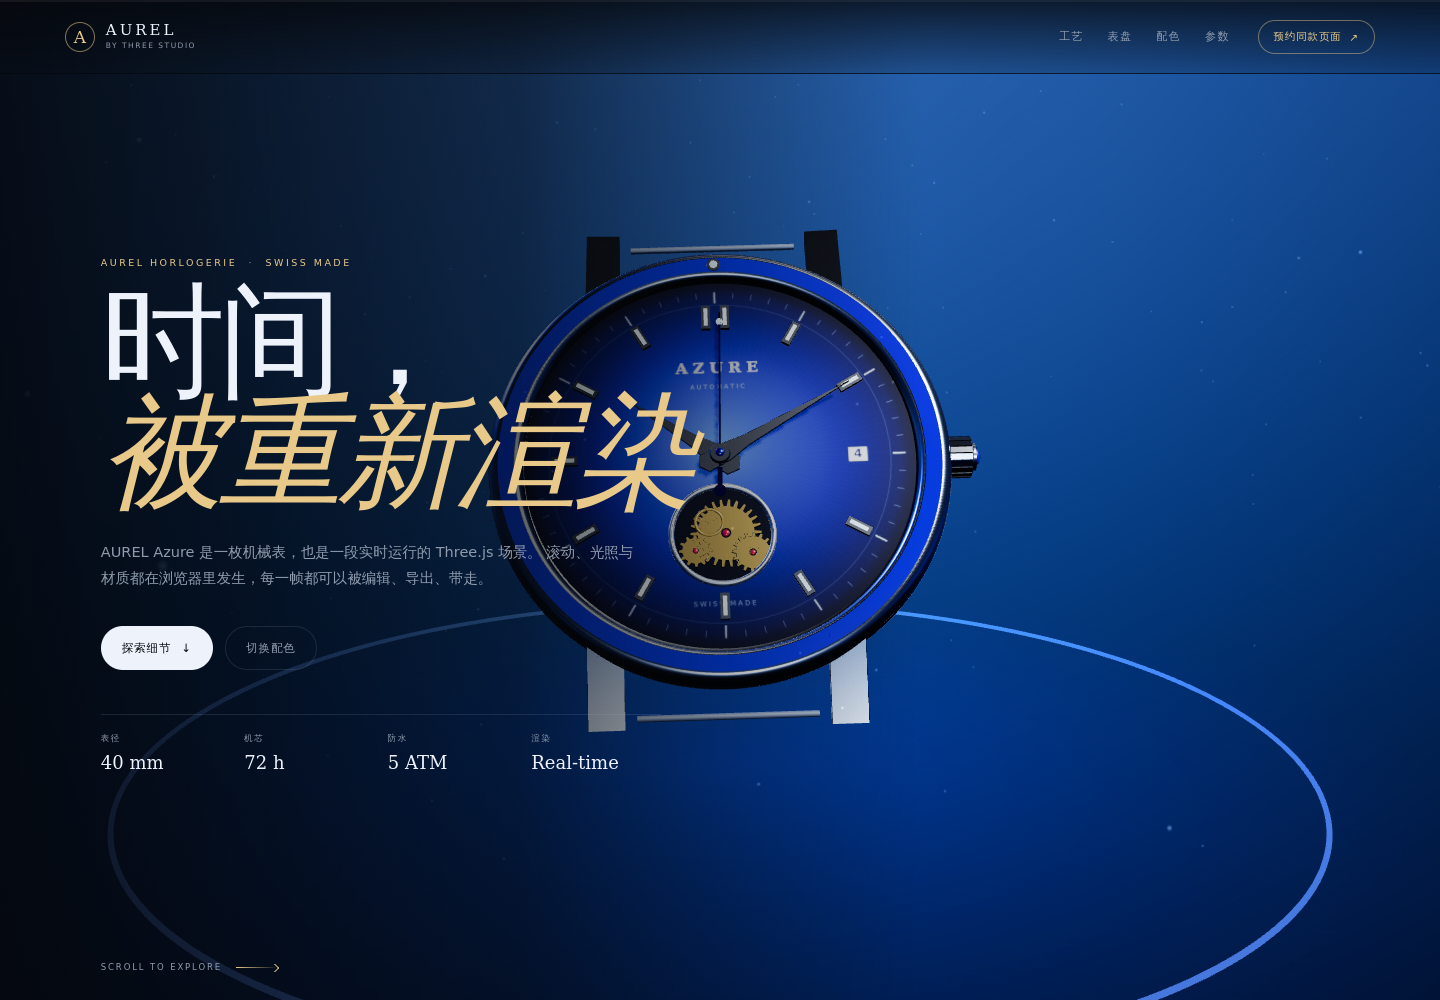
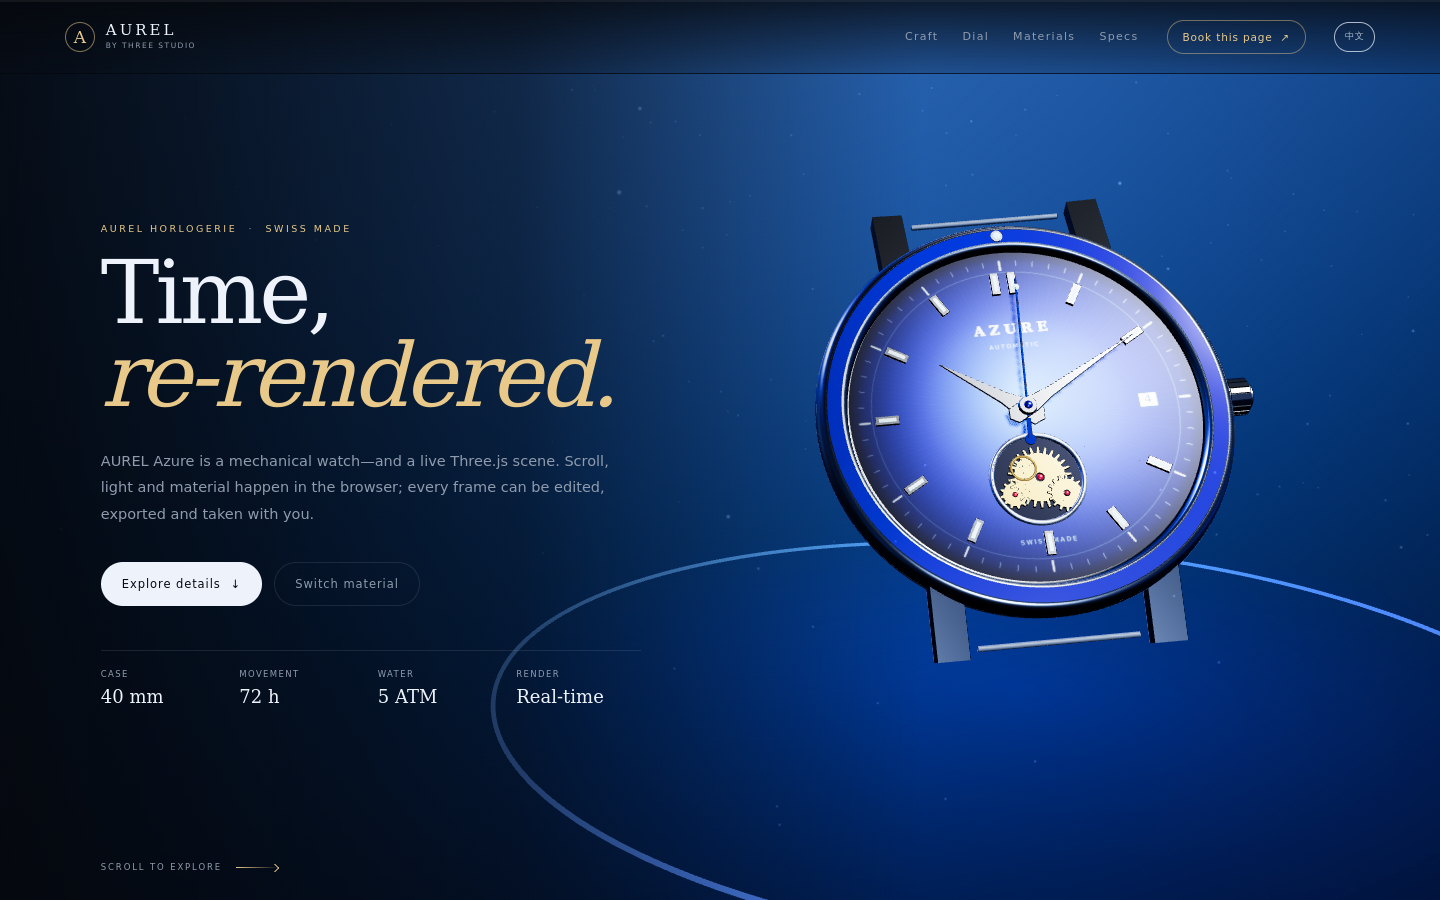
Rebuild the AUREL, LUMEN and ORBIT LAB gallery demos
The three original work demos rendered worse than the rest of the gallery: AUREL's 126px headline ran under the watch, LUMEN's lamp was stacked primitives, and ORBIT LAB's first lesson was an almost-black frame.

agency-demo: the hero camera slides right of centre while the first chapter holds, then recentres as the story panels take over; the headline caps at 88px in a 560px column so type and product no longer collide.

configurator-demo: every lamp part is now a lathe profile with real chamfers, lips and wall thickness instead of stacked cylinders, plus a turned collar, knurled band, machined shoulder, pivot pin, tapered arm, counterweight and a frosted diffuser. The shade went through three attempts worth recording: a double-sided closed lathe mirrored itself into moiré rings, two shells 2mm apart still z-fought, and the shipping version is an open FrontSide metal cone plus a separate matte inner cone 30mm apart. applyShade now toggles all four shade meshes and both rims so the hidden variant cannot draw through.

education-demo: step 01 shows the real stage scaffolding (camera frustum gizmo, light-rig markers, origin axes and target ring) over the shared ground grid instead of a lone wireframe cube, and the left headline scales to its column so it stops clipping mid-word.

previews regenerated at 1440x900 through real WebGL. 416 Node tests pass.

diff --git a/site/configurator-demo/main.js b/site/configurator-demo/main.js
@@ -102,7 +102,10 @@ const metalMat = new THREE.MeshPhysicalMaterial({
   clearcoat: 0.55,
   clearcoatRoughness: 0.22,
   envMapIntensity: 1.25,
-  side: THREE.DoubleSide,
+  // FrontSide only. A double-sided highly reflective shell makes its own inner
+  // wall mirror the outer one, which is what produced the moiré bands on the
+  // shade; the inner surface is now a separate matte cone.
+  side: THREE.FrontSide,
 })
 const bulbMat = new THREE.MeshStandardMaterial({
   color: 0xfff1d0,
@@ -141,74 +144,175 @@ const lamp = new THREE.Group()
 lamp.position.y = 0.02
 scene.add(lamp)
 
-const base = new THREE.Mesh(new THREE.CylinderGeometry(1.3, 1.44, 0.22, 64), metalMat)
-base.position.y = 0.11
-base.castShadow = true
-base.receiveShadow = true
+// The product is a lathe-turned metal lamp: every part is a profile revolved
+// around Y, so the body has a real chamfer, lip and wall thickness instead of
+// stacked cylinders. `metalMat` carries the configurable finish; `innerMat` is
+// the matt white reflector and must never take the body finish.
+const innerMat = new THREE.MeshStandardMaterial({
+  color: 0xf6efe2,
+  metalness: 0.0,
+  roughness: 0.92,
+  envMapIntensity: 0.5,
+  side: THREE.DoubleSide,
+})
+
+function lathe(profile, material, segments = 96) {
+  const points = profile.map(([radius, height]) => new THREE.Vector2(radius, height))
+  const mesh = new THREE.Mesh(new THREE.LatheGeometry(points, segments), material)
+  mesh.castShadow = true
+  mesh.receiveShadow = true
+  return mesh
+}
+
+// Cast base: flat underside, chamfered edge, domed top rising into a collar.
+const base = lathe([
+  [0.00, 0.00], [1.34, 0.00], [1.44, 0.035], [1.45, 0.090],
+  [1.41, 0.150], [1.30, 0.196], [1.10, 0.226], [0.84, 0.242],
+  [0.62, 0.258], [0.46, 0.310], [0.34, 0.372], [0.22, 0.404],
+  [0.13, 0.414], [0.00, 0.414],
+], metalMat)
 lamp.add(base)
 
-const baseRing = new THREE.Mesh(new THREE.TorusGeometry(1.25, 0.012, 8, 96), darkMat)
+// Turned collar the stem screws into, plus a dark seam ring for definition.
+const collar = lathe([
+  [0.000, 0.400], [0.150, 0.400], [0.150, 0.452], [0.128, 0.470],
+  [0.104, 0.470], [0.098, 0.452], [0.098, 0.400], [0.000, 0.400],
+], metalMat)
+lamp.add(collar)
+
+const baseRing = new THREE.Mesh(new THREE.TorusGeometry(0.60, 0.010, 8, 96), darkMat)
 baseRing.rotation.x = Math.PI / 2
-baseRing.position.y = 0.225
+baseRing.position.y = 0.262
 lamp.add(baseRing)
 
-const stem = new THREE.Mesh(new THREE.CylinderGeometry(0.075, 0.095, 2.05, 24), metalMat)
-stem.position.y = 1.22
-stem.castShadow = true
-stem.receiveShadow = true
+// Stem: slight taper, a knurled band, and a machined shoulder at the top.
+const stem = lathe([
+  [0.000, 0.440], [0.094, 0.440], [0.088, 0.470], [0.080, 1.90],
+  [0.086, 1.96], [0.096, 2.02], [0.104, 2.10], [0.104, 2.16],
+  [0.086, 2.20], [0.000, 2.20],
+], metalMat)
 lamp.add(stem)
 
-const joint = new THREE.Mesh(new THREE.SphereGeometry(0.16, 24, 16), metalMat)
-joint.position.y = 2.23
+const knurl = new THREE.Mesh(new THREE.CylinderGeometry(0.088, 0.088, 0.10, 32, 1, true), darkMat)
+knurl.position.y = 1.02
+lamp.add(knurl)
+
+// Shoulder + pivot joint.
+const shoulder = lathe([
+  [0.000, 2.16], [0.104, 2.16], [0.140, 2.20], [0.150, 2.26],
+  [0.132, 2.31], [0.060, 2.325], [0.000, 2.325],
+], metalMat)
+lamp.add(shoulder)
+
+const joint = new THREE.Mesh(new THREE.SphereGeometry(0.145, 32, 20), metalMat)
+joint.position.y = 2.335
 joint.castShadow = true
 lamp.add(joint)
 
+const jointPin = new THREE.Mesh(new THREE.CylinderGeometry(0.038, 0.038, 0.36, 20), darkMat)
+jointPin.rotation.z = Math.PI / 2
+jointPin.position.y = 2.335
+lamp.add(jointPin)
+
 const armPivot = new THREE.Group()
-armPivot.position.set(0, 2.23, 0)
+armPivot.position.set(0, 2.335, 0)
 armPivot.rotation.z = -0.28
 lamp.add(armPivot)
 
-const arm = new THREE.Mesh(new THREE.BoxGeometry(1.55, 0.085, 0.12), metalMat)
-arm.position.x = 0.775
+// Tapered arm with a counterweight behind the pivot, which is what makes a
+// balanced task lamp read as a real mechanism rather than a floating stick.
+const arm = new THREE.Mesh(new THREE.CylinderGeometry(0.052, 0.070, 1.52, 24), metalMat)
+arm.rotation.z = Math.PI / 2
+arm.position.x = 0.76
 arm.castShadow = true
 arm.receiveShadow = true
 armPivot.add(arm)
 
+const armEnd = new THREE.Mesh(new THREE.SphereGeometry(0.082, 24, 16), metalMat)
+armEnd.position.x = 1.52
+armEnd.castShadow = true
+armPivot.add(armEnd)
+
+// Counterweight behind the pivot. The lathe profile revolves around Y, so it is
+// rotated to sit on the arm's -X axis; without the z spin its cap faced sideways
+// and the weight read as a floating disc rather than a turned knob.
+const weight = lathe([
+  [0.000, 0.000], [0.118, 0.000], [0.118, 0.052], [0.104, 0.074],
+  [0.064, 0.086], [0.000, 0.086],
+], darkMat, 48)
+weight.rotation.z = Math.PI / 2
+weight.position.set(-0.30, 0, 0)
+armPivot.add(weight)
+
 const shadeGroup = new THREE.Group()
-shadeGroup.position.set(1.55, 0, 0)
-shadeGroup.rotation.z = 0.28
+shadeGroup.position.set(1.52, 0, 0)
+shadeGroup.rotation.z = 0.175
 armPivot.add(shadeGroup)
 
-const coneShade = new THREE.Mesh(new THREE.CylinderGeometry(0.23, 0.6, 0.62, 64, 1, true), metalMat)
-coneShade.position.y = -0.31
-coneShade.castShadow = true
-coneShade.receiveShadow = true
+const shadeNeck = new THREE.Mesh(new THREE.CylinderGeometry(0.10, 0.135, 0.16, 28), metalMat)
+shadeNeck.position.y = 0.05
+shadeNeck.castShadow = true
+shadeGroup.add(shadeNeck)
+
+// Conical shade: outer metal shell + inner matte reflector, 30 mm apart.
+//
+// Two failed attempts are worth recording. A single closed lathe rendered as
+// concentric moiré rings, because the metal is double-sided and highly
+// reflective, so the inner and outer walls reflected each other. Two shells
+// only 2 mm apart still z-fought. The shade is therefore an open outer cone
+// (metal, front faces) plus a separate open inner cone (matte white, back
+// faces) with a full 30 mm of air between them — which is also how a real lamp
+// shade is built.
+const SHADE_WALL = 0.030
+const coneOuter = [
+  [0.170, 0.020], [0.300, -0.120], [0.430, -0.280], [0.545, -0.450], [0.596, -0.575],
+]
+const coneShade = lathe(coneOuter, metalMat)
 shadeGroup.add(coneShade)
 
-const coneRim = new THREE.Mesh(new THREE.TorusGeometry(0.6, 0.018, 10, 64), darkMat)
+const coneInner = lathe(
+  coneOuter.map(([radius, height]) => [radius - SHADE_WALL, height + SHADE_WALL * 0.5]),
+  innerMat,
+)
+shadeGroup.add(coneInner)
+
+const coneRim = new THREE.Mesh(new THREE.TorusGeometry(0.583, 0.014, 10, 96), darkMat)
 coneRim.rotation.x = Math.PI / 2
-coneRim.position.y = -0.62
+coneRim.position.y = -0.586
 shadeGroup.add(coneRim)
 
-const domeShade = new THREE.Mesh(
-  new THREE.SphereGeometry(0.6, 48, 24, 0, Math.PI * 2, 0, Math.PI / 2),
-  metalMat,
-)
-domeShade.position.y = -0.6
-domeShade.castShadow = true
-domeShade.receiveShadow = true
+// Dome shade: the same two-shell construction, hemispherical.
+const domeOuter = [
+  [0.590, -0.600], [0.582, -0.500], [0.552, -0.360], [0.472, -0.200],
+  [0.342, -0.060], [0.186, 0.030],
+]
+const domeShade = lathe(domeOuter, metalMat)
 domeShade.visible = false
 shadeGroup.add(domeShade)
 
-const domeRim = new THREE.Mesh(new THREE.TorusGeometry(0.6, 0.018, 10, 64), darkMat)
+const domeInner = lathe(
+  domeOuter.map(([radius, height]) => [radius - SHADE_WALL, height + SHADE_WALL * 0.5]),
+  innerMat,
+)
+domeInner.visible = false
+shadeGroup.add(domeInner)
+
+const domeRim = new THREE.Mesh(new THREE.TorusGeometry(0.560, 0.014, 10, 96), darkMat)
 domeRim.rotation.x = Math.PI / 2
-domeRim.position.y = -0.6
+domeRim.position.y = -0.598
 domeRim.visible = false
 shadeGroup.add(domeRim)
 
-const bulb = new THREE.Mesh(new THREE.SphereGeometry(0.15, 24, 16), bulbMat)
+// Bulb sits behind a frosted diffuser disc so the light source has a body and
+// the glow sprite is not the only thing reading.
+const bulb = new THREE.Mesh(new THREE.SphereGeometry(0.135, 28, 20), bulbMat)
 bulb.position.y = -0.38
 shadeGroup.add(bulb)
+
+const diffuser = new THREE.Mesh(new THREE.CircleGeometry(0.175, 40), innerMat)
+diffuser.rotation.x = -Math.PI / 2
+diffuser.position.y = -0.30
+shadeGroup.add(diffuser)
 
 const glow = new THREE.Mesh(new THREE.CircleGeometry(0.52, 48), glowMat)
 glow.rotation.x = Math.PI / 2
@@ -338,12 +442,18 @@ function applyFinish() {
 
 function applyShade() {
   const dome = config.shade === 'dome'
+  // Each shade is an outer metal cone plus an inner matte cone; all four meshes
+  // and both rims have to follow the switch, or the hidden shade keeps drawing.
   coneShade.visible = !dome
+  coneInner.visible = !dome
   coneRim.visible = !dome
   domeShade.visible = dome
+  domeInner.visible = dome
   domeRim.visible = dome
   bulb.position.y = dome ? -0.48 : -0.38
-  glow.position.y = dome ? -0.6 : -0.6
+  diffuser.position.y = dome ? -0.40 : -0.30
+  diffuser.rotation.x = dome ? Math.PI / 2 : -Math.PI / 2
+  glow.position.y = -0.6
   lampLight.position.y = dome ? -0.48 : -0.38
 }
 

diff --git a/site/education-demo/main.js b/site/education-demo/main.js
@@ -75,11 +75,79 @@ grid.material.transparent = true
 grid.material.opacity = 0.3
 scene.add(grid)
 
-const placeholder = new THREE.Mesh(
-  new THREE.BoxGeometry(1.2, 1.2, 1.2),
-  new THREE.MeshStandardMaterial({ color: 0x6f8dff, wireframe: true, transparent: true, opacity: 0.55 }),
+// Step 01 shows the empty stage the lesson starts from. A bare wireframe cube
+// read as a black frame on the gallery card, so the stage shows the scaffolding
+// the code actually creates: a camera frustum, light-rig markers and the origin
+// gizmo. The ground grid it sits on is the shared `grid` above. This is a
+// composition, not a placeholder box.
+const placeholder = new THREE.Group()
+
+const frustumGeo = new THREE.BufferGeometry()
+{
+  // A camera gizmo at the origin: a 42° frustum pointing down -Z with a short
+  // throw. Drawing the rays from the real eye position (8.5, 6.2, 10.5) put a
+  // stray line across the whole stage, so the gizmo is compact and local.
+  const halfV = Math.tan((42 * Math.PI) / 180 / 2)
+  const halfH = halfV * (16 / 10)
+  const points = []
+  const near = 0.55
+  const far = 1.5
+  const quad = distance => {
+    const v = distance * halfV
+    const h = distance * halfH
+    return [
+      [-h, v, -distance], [h, v, -distance],
+      [h, -v, -distance], [-h, -v, -distance],
+    ]
+  }
+  const nearQuad = quad(near)
+  const farQuad = quad(far)
+  const push = (a, b) => { points.push(...a, ...b) }
+  for (let i = 0; i < 4; i += 1) {
+    push([0, 0, 0], farQuad[i])
+    push(nearQuad[i], nearQuad[(i + 1) % 4])
+    push(farQuad[i], farQuad[(i + 1) % 4])
+  }
+  frustumGeo.setAttribute('position', new THREE.Float32BufferAttribute(points, 3))
+}
+const frustum = new THREE.LineSegments(
+  frustumGeo,
+  new THREE.LineBasicMaterial({ color: 0x6f8dff, transparent: true, opacity: 0.5 }),
 )
-placeholder.position.y = 0
+frustum.position.set(0, 1.1, 0)
+frustum.rotation.y = -0.6
+placeholder.add(frustum)
+
+// Light rig markers: a small sun-coloured dot for the hemisphere + directional
+// pair the first lesson adds, tied to the same spots the code uses.
+for (const [x, y, z, colour] of [[6, 9, 6, 0xffd08a], [-7, 4, -5, 0x6f8dff]]) {
+  const marker = new THREE.Mesh(
+    new THREE.SphereGeometry(0.11, 16, 12),
+    new THREE.MeshBasicMaterial({ color: colour }),
+  )
+  marker.position.set(x, y, z)
+  placeholder.add(marker)
+  const halo = new THREE.Mesh(
+    new THREE.SphereGeometry(0.24, 16, 12),
+    new THREE.MeshBasicMaterial({ color: colour, transparent: true, opacity: 0.2, depthWrite: false, blending: THREE.AdditiveBlending }),
+  )
+  halo.position.copy(marker.position)
+  placeholder.add(halo)
+}
+
+// Origin gizmo so the empty stage still has a centre of gravity.
+const axes = new THREE.AxesHelper(1.1)
+axes.material.transparent = true
+axes.material.opacity = 0.7
+placeholder.add(axes)
+
+const target = new THREE.Mesh(
+  new THREE.TorusGeometry(0.42, 0.012, 8, 64),
+  new THREE.MeshBasicMaterial({ color: 0xffd08a, transparent: true, opacity: 0.55 }),
+)
+target.rotation.x = Math.PI / 2
+placeholder.add(target)
+
 scene.add(placeholder)
 
 const sunGroup = new THREE.Group()

diff --git a/site/agency-demo/styles.css b/site/agency-demo/styles.css
@@ -183,13 +183,15 @@ main { position: relative; z-index: 2; }
   pointer-events: none;
   background: linear-gradient(90deg, rgba(5, 7, 11, 0.9) 0%, rgba(5, 7, 11, 0.62) 36%, rgba(5, 7, 11, 0) 64%);
 }
-.hero-copy { position: relative; z-index: 2; max-width: 640px; }
+.hero-copy { position: relative; z-index: 2; max-width: 560px; }
 .hero h1 {
   margin: 0;
   font-family: var(--serif);
   font-weight: 400;
-  font-size: clamp(56px, 8.6vw, 126px);
-  line-height: 0.9;
+  /* The watch is framed to the right of the headline; a 126px line would run
+     under it, so the display size caps lower and the copy column narrows. */
+  font-size: clamp(46px, 6.2vw, 88px);
+  line-height: 0.94;
   letter-spacing: -0.045em;
 }
 .hero h1 em {

diff --git a/site/agency-demo/main.js b/site/agency-demo/main.js
@@ -104,6 +104,13 @@ function animate() {
   for (const callback of frameCallbacks) callback({ time: elapsed, delta })
 
   const view = sampleCamera(progress)
+  // The hero headline owns the left half of the page, so frame the watch right
+  // of centre by sliding camera and target together: that keeps the viewing
+  // angle (and therefore the reflections) while moving the subject on screen.
+  // The offset fades out as soon as the first chapter panel takes over.
+  const heroShift = 1.45 * (1 - clamp(progress / 0.11))
+  view.position[0] -= heroShift
+  view.target[0] -= heroShift
   if (mobileView) {
     view.position[1] += 1.0
     view.position[2] += 2.4

diff --git a/site/education-demo/styles.css b/site/education-demo/styles.css
@@ -75,7 +75,9 @@ button { font: inherit; color: inherit; }
 }
 .steps h1 {
   margin: 0; font-family: var(--serif); font-weight: 400;
-  font-size: clamp(34px, 2.9vw, 50px); line-height: 1.02; letter-spacing: -0.04em;
+  /* The left column is ~300px wide at 1440px, so a 50px headline overflowed the
+     panel and clipped mid-word. Scale to the column, not the viewport. */
+  font-size: clamp(26px, 2.1vw, 34px); line-height: 1.08; letter-spacing: -0.035em;
 }
 .steps h1 em { color: var(--sun); white-space: nowrap; }
 .lede { margin: 20px 0 24px; color: var(--muted); font-size: 12.5px; line-height: 1.8; }
